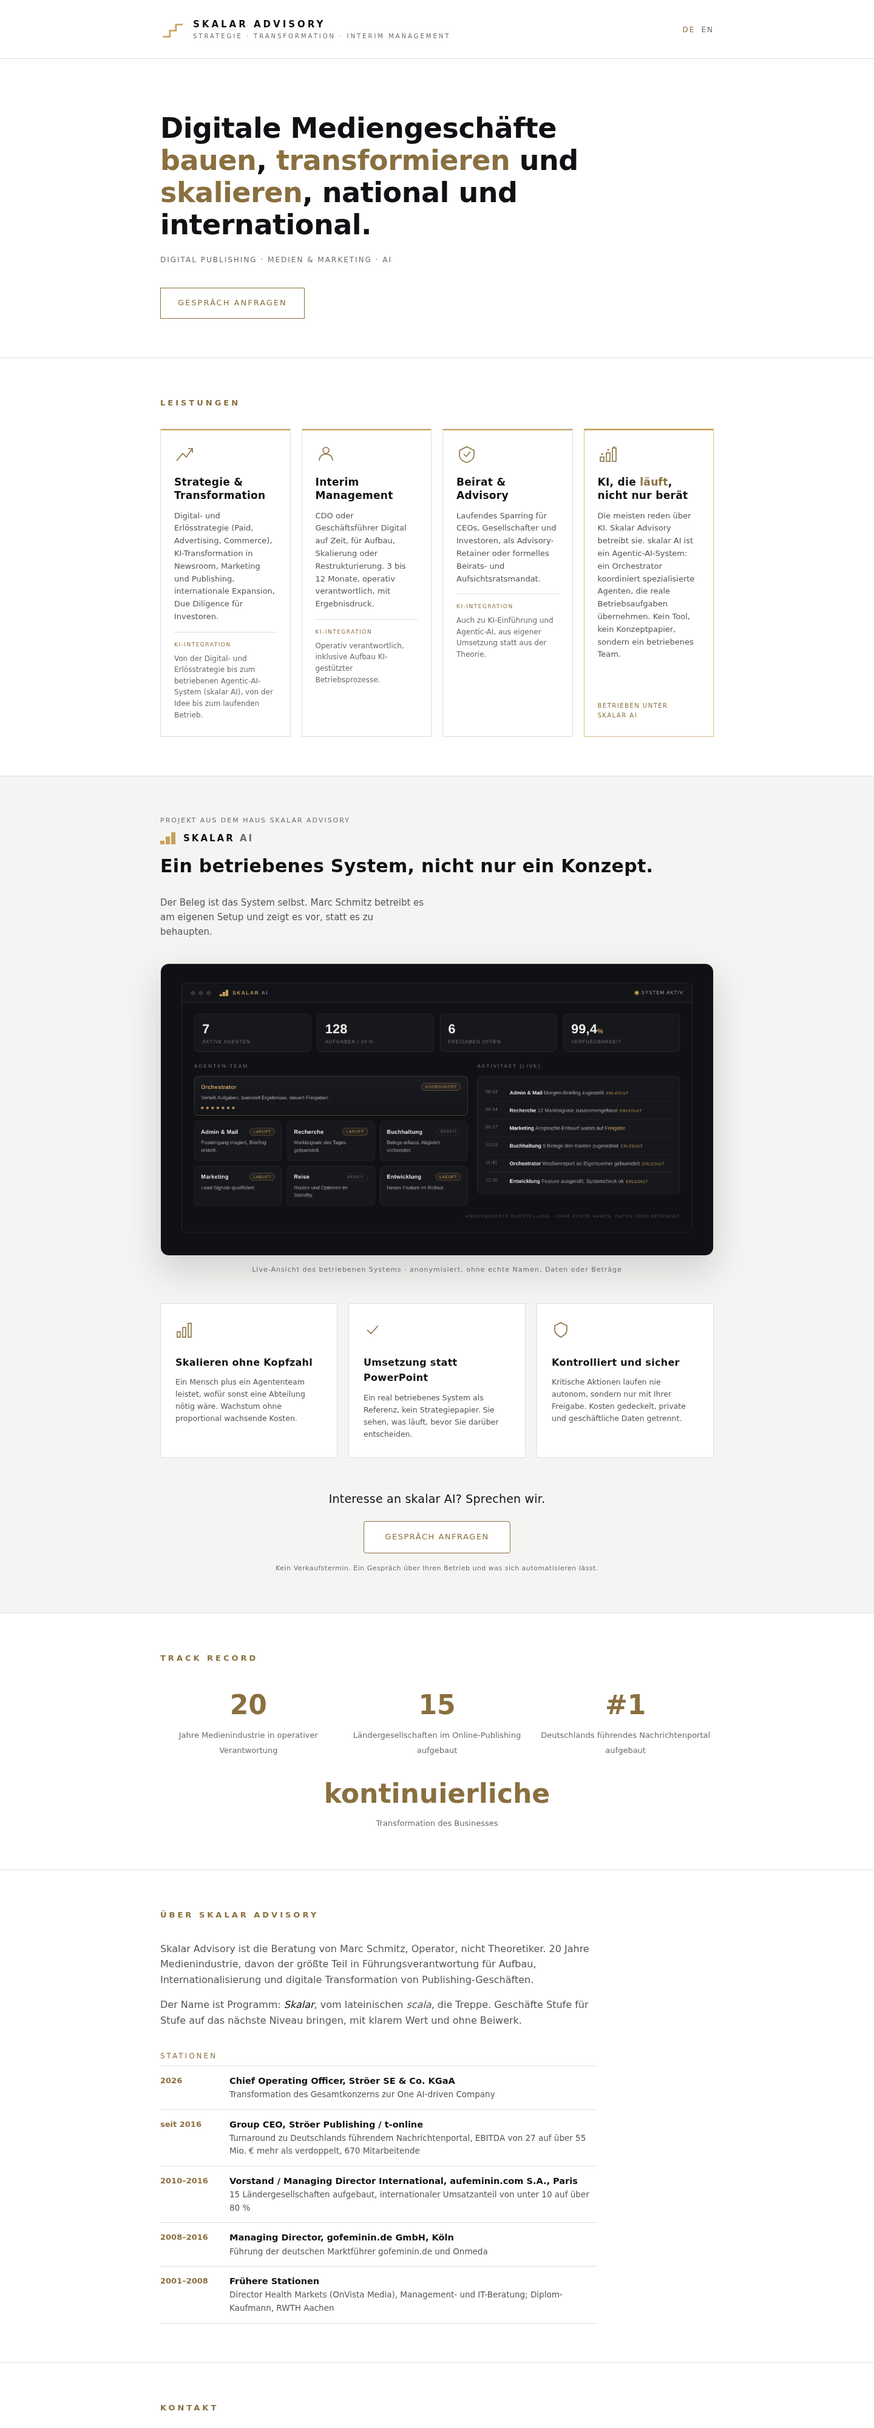
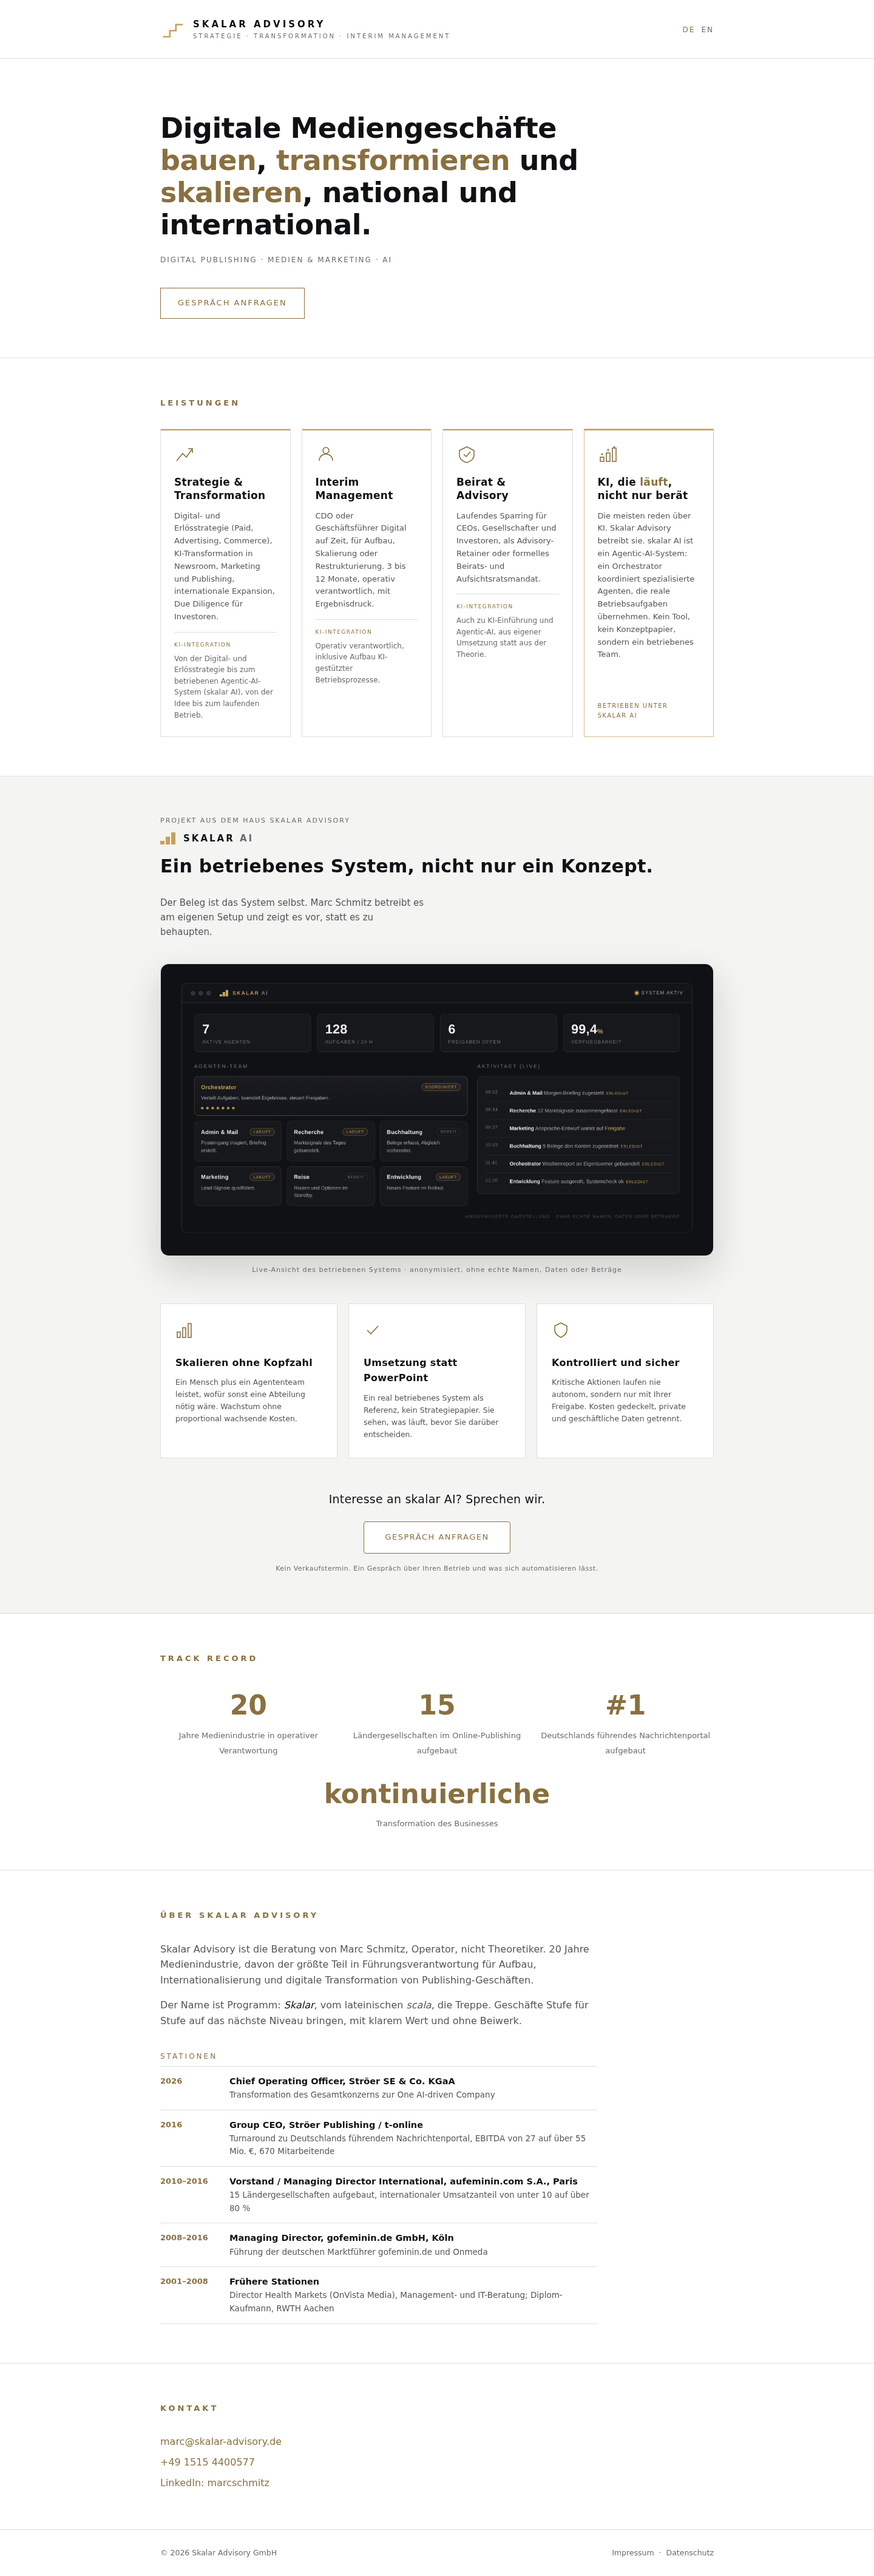
Light-Variante: EBITDA nur absolute Zahl, Stroeer-Stationen ohne seit/since (DE+EN), Screenshots + Evidence aktualisiert

diff --git a/light/en/index.html b/light/en/index.html
@@ -346,7 +346,7 @@ header .brand svg path { stroke:var(--gold); }
     <div class="cv">
       <div class="cv-label">Career</div>
       <div class="cv-item reveal"><div class="cv-date">2026</div><div><span class="cv-role">Chief Operating Officer, Ströer SE &amp; Co. KGaA</span><div class="cv-desc">Transforming the group into One AI-driven Company</div></div></div>
-      <div class="cv-item reveal"><div class="cv-date">since 2016</div><div><span class="cv-role">Group CEO, Ströer Publishing / t-online</span><div class="cv-desc">Turned a declining portal into Germany&rsquo;s leading news portal, more than doubled EBITDA from &euro;27m to over &euro;55m, 670 employees</div></div></div>
+      <div class="cv-item reveal"><div class="cv-date">2016</div><div><span class="cv-role">Group CEO, Ströer Publishing / t-online</span><div class="cv-desc">Turned a declining portal into Germany&rsquo;s leading news portal, EBITDA from &euro;27m to over &euro;55m, 670 employees</div></div></div>
       <div class="cv-item reveal"><div class="cv-date">2010–2016</div><div><span class="cv-role">Board Member / Managing Director International, aufeminin.com S.A., Paris</span><div class="cv-desc">Built 15 international operations, grew international revenue share from under 10% to over 80%</div></div></div>
       <div class="cv-item reveal"><div class="cv-date">2008–2016</div><div><span class="cv-role">Managing Director, gofeminin.de GmbH, Cologne</span><div class="cv-desc">Led German market leaders gofeminin.de and Onmeda</div></div></div>
       <div class="cv-item reveal"><div class="cv-date">2001–2008</div><div><span class="cv-role">Earlier roles</span><div class="cv-desc">Director Health Markets (OnVista Media), management and IT consulting; business degree (Diplom-Kaufmann), RWTH Aachen</div></div></div>

diff --git a/light/index.html b/light/index.html
@@ -356,7 +356,7 @@ header .brand svg path { stroke:var(--gold); }
     <div class="cv">
       <div class="cv-label">Stationen</div>
       <div class="cv-item reveal"><div class="cv-date">2026</div><div><span class="cv-role">Chief Operating Officer, Ströer SE &amp; Co. KGaA</span><div class="cv-desc">Transformation des Gesamtkonzerns zur One AI-driven Company</div></div></div>
-      <div class="cv-item reveal"><div class="cv-date">seit 2016</div><div><span class="cv-role">Group CEO, Ströer Publishing / t-online</span><div class="cv-desc">Turnaround zu Deutschlands führendem Nachrichtenportal, EBITDA von 27 auf über 55 Mio. € mehr als verdoppelt, 670 Mitarbeitende</div></div></div>
+      <div class="cv-item reveal"><div class="cv-date">2016</div><div><span class="cv-role">Group CEO, Ströer Publishing / t-online</span><div class="cv-desc">Turnaround zu Deutschlands führendem Nachrichtenportal, EBITDA von 27 auf über 55 Mio. €, 670 Mitarbeitende</div></div></div>
       <div class="cv-item reveal"><div class="cv-date">2010–2016</div><div><span class="cv-role">Vorstand / Managing Director International, aufeminin.com S.A., Paris</span><div class="cv-desc">15 Ländergesellschaften aufgebaut, internationaler Umsatzanteil von unter 10 auf über 80 %</div></div></div>
       <div class="cv-item reveal"><div class="cv-date">2008–2016</div><div><span class="cv-role">Managing Director, gofeminin.de GmbH, Köln</span><div class="cv-desc">Führung der deutschen Marktführer gofeminin.de und Onmeda</div></div></div>
       <div class="cv-item reveal"><div class="cv-date">2001–2008</div><div><span class="cv-role">Frühere Stationen</span><div class="cv-desc">Director Health Markets (OnVista Media), Management- und IT-Beratung; Diplom-Kaufmann, RWTH Aachen</div></div></div>
